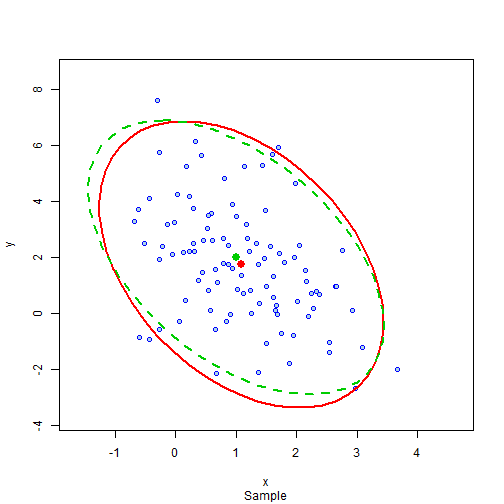
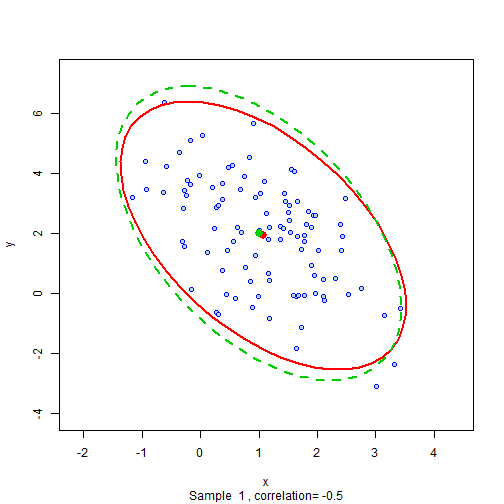
some improvements and sugar

diff --git a/lab01/lab0102.html b/lab01/lab0102.html
@@ -183,6 +183,7 @@ hljs.initHighlightingOnLoad();
 <pre><code class="r">library(car)
 library(MASS)
 library(knitr)
+library(psych)
 </code></pre>
 
 <p>Initializing variables</p>
@@ -206,26 +207,34 @@ print(mu)
 </code></pre>
 
 <pre><code class="r">
+count &lt;- 0
 for (correlation in rho) {
-    # Generating samples ~N(mu, Sigma)
-    covariance &lt;- correlation * sigma1 * sigma2
-    Sigma &lt;- matrix(c(1, covariance, covariance, 4), 2, 2)
-    sample &lt;- mvrnorm(n = 100, mu, Sigma)
+    count &lt;- count + 1
     print(paste(&quot;correlation: &quot;, correlation))
 
+    # Calculating the covariance matrix
+    covariance &lt;- correlation * sigma1 * sigma2  # elements (1,2) and (2,1) in covariance matrix Sigma
+    Sigma &lt;- matrix(c(1, covariance, covariance, 4), 2, 2)
+
+    # Generating samples ~N(mu, Sigma)
+    sample &lt;- mvrnorm(n = 100, mu, Sigma)
 
     # Getting mean and covariance matrix for new sample
     smean &lt;- apply(sample, 2, mean)
     scov &lt;- cov(sample)
 
-    print(&quot;Sample mean: &quot;)
-    print(mu)
-    print(&quot;Sigma:&quot;)
-    print(Sigma)
+    print(&quot;Sample mean:&quot;)
+    print(smean)
+    print(&quot;Sample covariance matrix:&quot;)
+    print(scov)
 
     variance &lt;- apply(sample, 2, var)
     print(&quot;Variance: &quot;)
     print(variance)
+
+    # Descriptive statistics
+    dstat &lt;- describe(sample)
+    print(dstat)
 
     # Getting the limits of the plot
     xmax &lt;- max(sample[, 1])
@@ -233,52 +242,71 @@ for (correlation in rho) {
     xmin &lt;- min(sample[, 1])
     ymin &lt;- min(sample[, 2])
 
-    # Visualizing sample on plot with two elipses: expected and observed
-    plot(sample, sub = &quot;Sample&quot;, xlab = &quot;x&quot;, ylab = &quot;y&quot;, xlim = c(xmin - 1, 
-        xmax + 1), ylim = c(ymin - 1, ymax + 1), pch = 21, col = &quot;blue&quot;, bg = &quot;lightblue&quot;)
+    # Visualizing sample on plot with two ellipses: expected and observed
+    plot(sample, sub = paste(&quot;Sample &quot;, count, &quot;, correlation=&quot;, correlation), 
+        xlab = &quot;x&quot;, ylab = &quot;y&quot;, xlim = c(xmin - 1, xmax + 1), ylim = c(ymin - 
+            1, ymax + 1), pch = 21, col = &quot;blue&quot;, bg = &quot;lightblue&quot;)
     ellipse(smean, scov, sqrt(qchisq(probability, 2)))
     ellipse(mu, Sigma, sqrt(qchisq(probability, 2)), col = 3, lty = 2)
 }
 </code></pre>
 
 <pre><code>## [1] &quot;correlation:  -0.5&quot;
-## [1] &quot;Sample mean: &quot;
-## [1] 1 2
-## [1] &quot;Sigma:&quot;
-##      [,1] [,2]
-## [1,]    1   -1
-## [2,]   -1    4
+## [1] &quot;Sample mean:&quot;
+## [1] 1.074 1.930
+## [1] &quot;Sample covariance matrix:&quot;
+##         [,1]    [,2]
+## [1,]  0.9983 -0.9606
+## [2,] -0.9606  3.3306
 ## [1] &quot;Variance: &quot;
-## [1] 0.9214 4.3773
+## [1] 0.9983 3.3306
+##   var   n mean   sd median trimmed  mad   min  max range  skew kurtosis
+## 1   1 100 1.07 1.00   1.14    1.07 1.04 -1.16 3.41  4.58 -0.01    -0.52
+## 2   2 100 1.93 1.82   2.12    1.96 1.99 -3.11 6.34  9.45 -0.21    -0.32
+##     se
+## 1 0.10
+## 2 0.18
 </code></pre>
 
[2 lines of base64/hex data omitted]
 
 <pre><code>## [1] &quot;correlation:  0&quot;
-## [1] &quot;Sample mean: &quot;
-## [1] 1 2
-## [1] &quot;Sigma:&quot;
-##      [,1] [,2]
-## [1,]    1    0
-## [2,]    0    4
+## [1] &quot;Sample mean:&quot;
+## [1] 0.9311 2.4844
+## [1] &quot;Sample covariance matrix:&quot;
+##         [,1]    [,2]
+## [1,]  1.0027 -0.3656
+## [2,] -0.3656  3.5671
 ## [1] &quot;Variance: &quot;
-## [1] 0.8755 3.1891
+## [1] 1.003 3.567
+##   var   n mean   sd median trimmed  mad   min  max range  skew kurtosis
+## 1   1 100 0.93 1.00   0.83    0.92 1.04 -1.24 2.92  4.15  0.11    -0.83
+## 2   2 100 2.48 1.89   2.41    2.48 1.78 -3.79 7.11 10.90 -0.10     0.26
+##     se
+## 1 0.10
+## 2 0.19
 </code></pre>
 
[2 lines of base64/hex data omitted]
 
 <pre><code>## [1] &quot;correlation:  0.5&quot;
-## [1] &quot;Sample mean: &quot;
-## [1] 1 2
-## [1] &quot;Sigma:&quot;
-##      [,1] [,2]
-## [1,]    1    1
-## [2,]    1    4
+## [1] &quot;Sample mean:&quot;
+## [1] 0.8002 1.7962
+## [1] &quot;Sample covariance matrix:&quot;
+##        [,1]   [,2]
+## [1,] 0.8733 0.9491
+## [2,] 0.9491 4.1554
 ## [1] &quot;Variance: &quot;
-## [1] 0.9059 5.3072
+## [1] 0.8733 4.1554
+##   var   n mean   sd median trimmed  mad   min  max range  skew kurtosis
+## 1   1 100  0.8 0.93   0.70    0.80 0.82 -1.25 3.41  4.66  0.15    -0.13
+## 2   2 100  1.8 2.04   2.11    1.82 2.26 -2.78 6.89  9.67 -0.13    -0.62
+##     se
+## 1 0.09
+## 2 0.20
 </code></pre>
 
[2 lines of base64/hex data omitted]
 
 <!-- Automatically generated by RStudio [12861c30b10411e1afa60800200c9a66] -->
 
